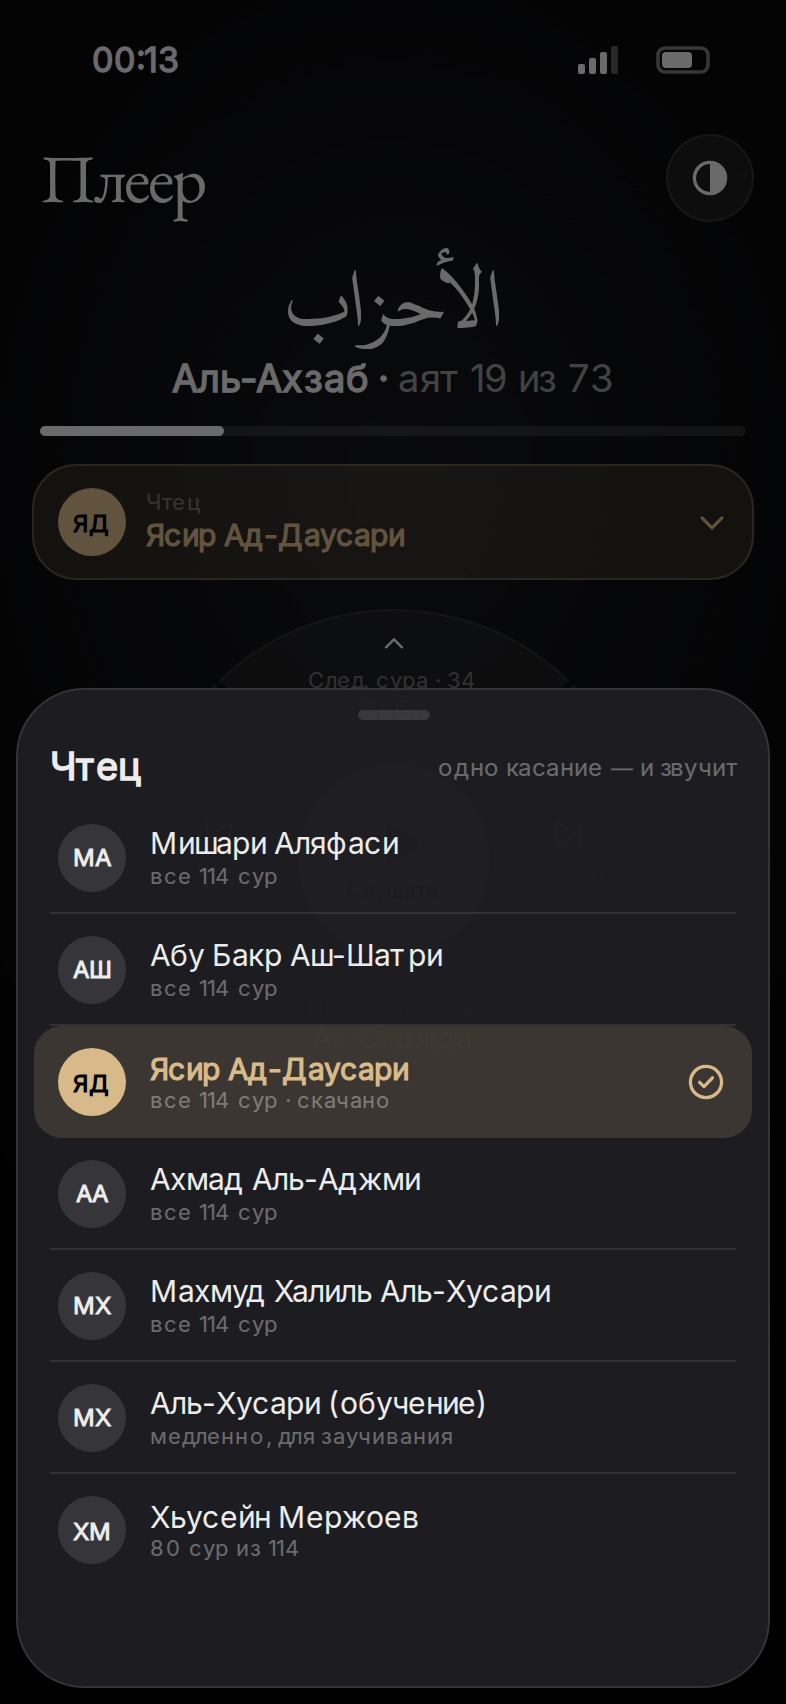
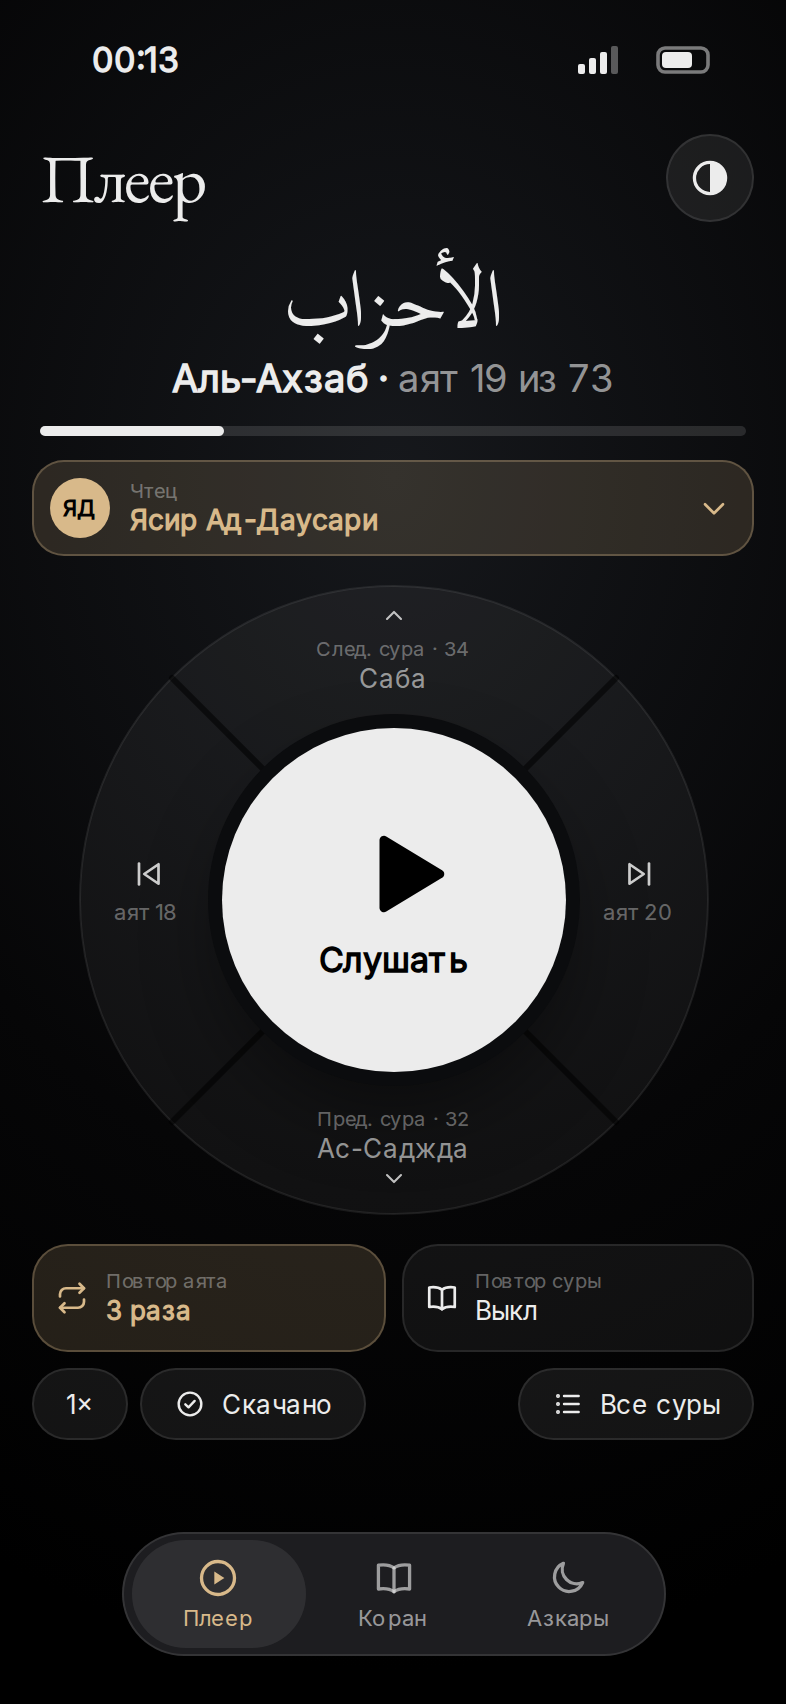
docs(design): E3 — крупная кнопка «Слушать», остальные кнопки компактнее

diff --git a/docs/design/player-redesign/reciter.html b/docs/design/player-redesign/reciter.html
@@ -128,6 +128,33 @@ svg{stroke:currentColor;fill:none;stroke-width:1.8;stroke-linecap:round;stroke-l
  </div>
  <div style="display:flex;gap:8px;padding:0 16px;margin-top:10px"><div class="pill">1×</div><div class="pill"><svg width="18" height="18"><use href="#check"/></svg>Скачано</div><div class="pill" style="margin-left:auto"><svg width="18" height="18"><use href="#list"/></svg>Все суры</div></div>
 </template>
+<!-- Крестовина E3 после правки владельца 16.11: «Слушать» намного крупнее (172 px вместо 96),
+     кольцо с остальными кнопками тоньше, подписи и значки мельче — главный акцент на воспроизведении -->
+<template id="padbig">
+ <div style="position:relative;width:316px;height:316px;margin:0 auto">
+  <svg width="316" height="316" viewBox="0 0 316 316" style="position:absolute;inset:0;stroke:none">
+   <circle cx="158" cy="158" r="157" fill="rgba(236,236,236,.05)" stroke="rgba(236,236,236,.09)" stroke-width="1"/>
+   <line x1="47" y1="47" x2="269" y2="269" stroke="rgba(0,0,0,.55)" stroke-width="3"/>
+   <line x1="269" y1="47" x2="47" y2="269" stroke="rgba(0,0,0,.55)" stroke-width="3"/>
+  </svg>
+  <div style="position:absolute;left:72px;top:72px;width:172px;height:172px;border-radius:50%;background:var(--ink);color:#000;display:flex;flex-direction:column;align-items:center;justify-content:center;gap:6px;box-shadow:0 0 0 7px #0b0c0e,0 18px 40px rgba(0,0,0,.45)"><svg width="54" height="54" style="margin-left:8px"><use href="#play"/></svg><span style="font-size:17px;font-weight:600;letter-spacing:-.01em">Слушать</span></div>
+  <div class="c" style="position:absolute;left:0;right:0;top:9px;line-height:1.1"><svg width="14" height="14" style="transform:rotate(-90deg);opacity:.8"><use href="#chevR"/></svg><span class="cap" style="font-size:10px">След. сура · 34</span><span style="font-size:13px;color:var(--ink2)">Саба</span></div>
+  <div class="c" style="position:absolute;left:0;right:0;bottom:8px;line-height:1.1"><span class="cap" style="font-size:10px">Пред. сура · 32</span><span style="font-size:13px;color:var(--ink2)">Ас-Саджда</span><br><svg width="14" height="14" style="transform:rotate(90deg);opacity:.8"><use href="#chevR"/></svg></div>
+  <div class="c" style="position:absolute;left:4px;top:136px;width:62px;line-height:1.2"><svg width="18" height="18" style="opacity:.85"><use href="#prevA"/></svg><span class="cap" style="font-size:11px">аят 18</span></div>
+  <div class="c" style="position:absolute;right:4px;top:136px;width:62px;line-height:1.2"><svg width="18" height="18" style="opacity:.85"><use href="#nextA"/></svg><span class="cap" style="font-size:11px">аят 20</span></div>
+ </div>
+</template>
+<!-- Повторы и пилюли для E3 — компактнее, чтобы не спорить с «Слушать» -->
+<template id="repssm">
+ <div style="display:grid;grid-template-columns:1fr 1fr;gap:8px;padding:0 16px">
+  <div class="key gold" style="height:54px;padding:0 10px;border-radius:18px;gap:8px"><svg width="18" height="18" class="brand"><use href="#rep1"/></svg><span style="line-height:1.1"><span class="cap" style="font-size:10px">Повтор аята</span><span class="brand" style="font-size:13px;font-weight:600">3 раза</span></span></div>
+  <div class="key" style="height:54px;padding:0 10px;border-radius:18px;gap:8px"><svg width="18" height="18"><use href="#book"/></svg><span style="line-height:1.1"><span class="cap" style="font-size:10px">Повтор суры</span><span style="font-size:13px">Выкл</span></span></div>
+ </div>
+ <div style="display:flex;gap:6px;padding:0 16px;margin-top:8px"><div class="pill" style="height:36px;font-size:13px">1×</div><div class="pill" style="height:36px;font-size:13px"><svg width="16" height="16"><use href="#check"/></svg>Скачано</div><div class="pill" style="height:36px;font-size:13px;margin-left:auto"><svg width="16" height="16"><use href="#list"/></svg>Все суры</div></div>
+</template>
+<template id="reciterkey">
+ <div style="padding:0 16px;margin-top:12px"><div class="key gold" style="height:48px;padding:0 10px 0 8px;border-radius:16px"><span class="mono gold" style="width:30px;height:30px;font-size:11px">ЯД</span><span style="line-height:1.1;flex:1"><span class="cap" style="font-size:10px">Чтец</span><span class="brand" style="font-size:14px;font-weight:600">Ясир Ад-Даусари</span></span><svg width="18" height="18" class="brand"><use href="#down"/></svg></div></div>
+</template>
 <template id="title">
  <div class="c" style="margin-top:6px"><div class="ar" style="font-size:44px;line-height:1.25">الأحزاب</div>
   <div style="font-size:19px;font-weight:600">Аль-Ахзаб · <span class="muted" style="font-weight:400">аят 19 из 73</span></div></div>
@@ -172,8 +199,18 @@ svg{stroke:currentColor;fill:none;stroke-width:1.8;stroke-linecap:round;stroke-l
 <div class="phone" id="E3">
  <div class="chrome"></div>
  <div class="title"></div>
- <div style="padding:0 16px;margin-top:14px"><div class="key gold" style="height:58px;padding:0 10px 0 12px"><span class="mono gold">ЯД</span><span style="line-height:1.15;flex:1"><span class="cap">Чтец</span><span class="val brand" style="font-weight:600">Ясир Ад-Даусари</span></span><svg width="20" height="20" class="brand"><use href="#down"/></svg></div></div>
- <div style="margin-top:14px"><div class="pad"></div></div>
+ <div class="reciterkey"></div>
+ <div style="margin-top:14px"><div class="padbig"></div></div>
+ <div style="margin-top:14px"><div class="repssm"></div></div>
+ <div class="tabs"></div>
+</div>
+
+<!-- E3, открытый список чтецов (по нажатию на клавишу «Чтец») -->
+<div class="phone" id="E3L">
+ <div class="chrome"></div>
+ <div class="title"></div>
+ <div class="reciterkey"></div>
+ <div style="margin-top:14px"><div class="padbig"></div></div>
  <!-- затемнение и открытый список -->
  <div style="position:absolute;inset:0;background:rgba(0,0,0,.55)"></div>
  <div style="position:absolute;left:8px;right:8px;bottom:8px;height:500px;border-radius:34px;background:rgba(30,30,34,.98);border:1px solid rgba(255,255,255,.10);padding:10px 16px 0">
@@ -208,7 +245,7 @@ svg{stroke:currentColor;fill:none;stroke-width:1.8;stroke-linecap:round;stroke-l
 <script>
 const put = (p, cls, id) => p.querySelectorAll('.' + cls).forEach(n => n.replaceWith(document.getElementById(id).content.cloneNode(true)));
 for (const p of document.querySelectorAll('.phone')) {
-  put(p, 'chrome', 'chrome'); put(p, 'tabs', 'tabs'); put(p, 'title', 'title'); put(p, 'pad', 'pad'); put(p, 'reps', 'reps');
+  put(p, 'chrome', 'chrome'); put(p, 'tabs', 'tabs'); put(p, 'title', 'title'); put(p, 'pad', 'pad'); put(p, 'reps', 'reps'); put(p, 'padbig', 'padbig'); put(p, 'repssm', 'repssm'); put(p, 'reciterkey', 'reciterkey');
 }
 </script>
 </body></html>

diff --git a/STATUS.md b/STATUS.md
@@ -95,7 +95,12 @@ production --replace-live --status completed` (versionCode 13, правка
    `reciter-E1..E4.png`: E1 «Лента чтецов» (строка чипов), E2 «Карусель»
    (имя крупно, ‹ › и свайп), E3 «Клавиша и список» (крупный лист снизу),
    E4 «Мои чтецы» (три своих кнопки + «Все»).
-   ⏳ Ждём выбора способа смены чтеца.
+   16.11 владелец выбрал E3 «Клавиша и список» и попросил сделать
+   «Слушать» намного крупнее, остальные кнопки меньше. Сделано в макете:
+   центр крестовины 172 px (было 96), кольцо 316 px с мелкими значками,
+   клавиша чтеца, повторы и пилюли ниже и компактнее
+   (`reciter-E3.png` — основной вид, `reciter-E3L.png` — открытый список).
+   ⏳ Ждём одобрения макета, затем — вёрстка плеера в `src/`.
 4. ✅ Свечение в тёмной теме. На шрифте мусхафа (QPC V4) «свечение» было
    сплошной плашкой (text-shadow на iOS ломает его глифы) — на снимке зелёный
    прямоугольник. Теперь — неподвижное пятно-градиент цвета выбранной
